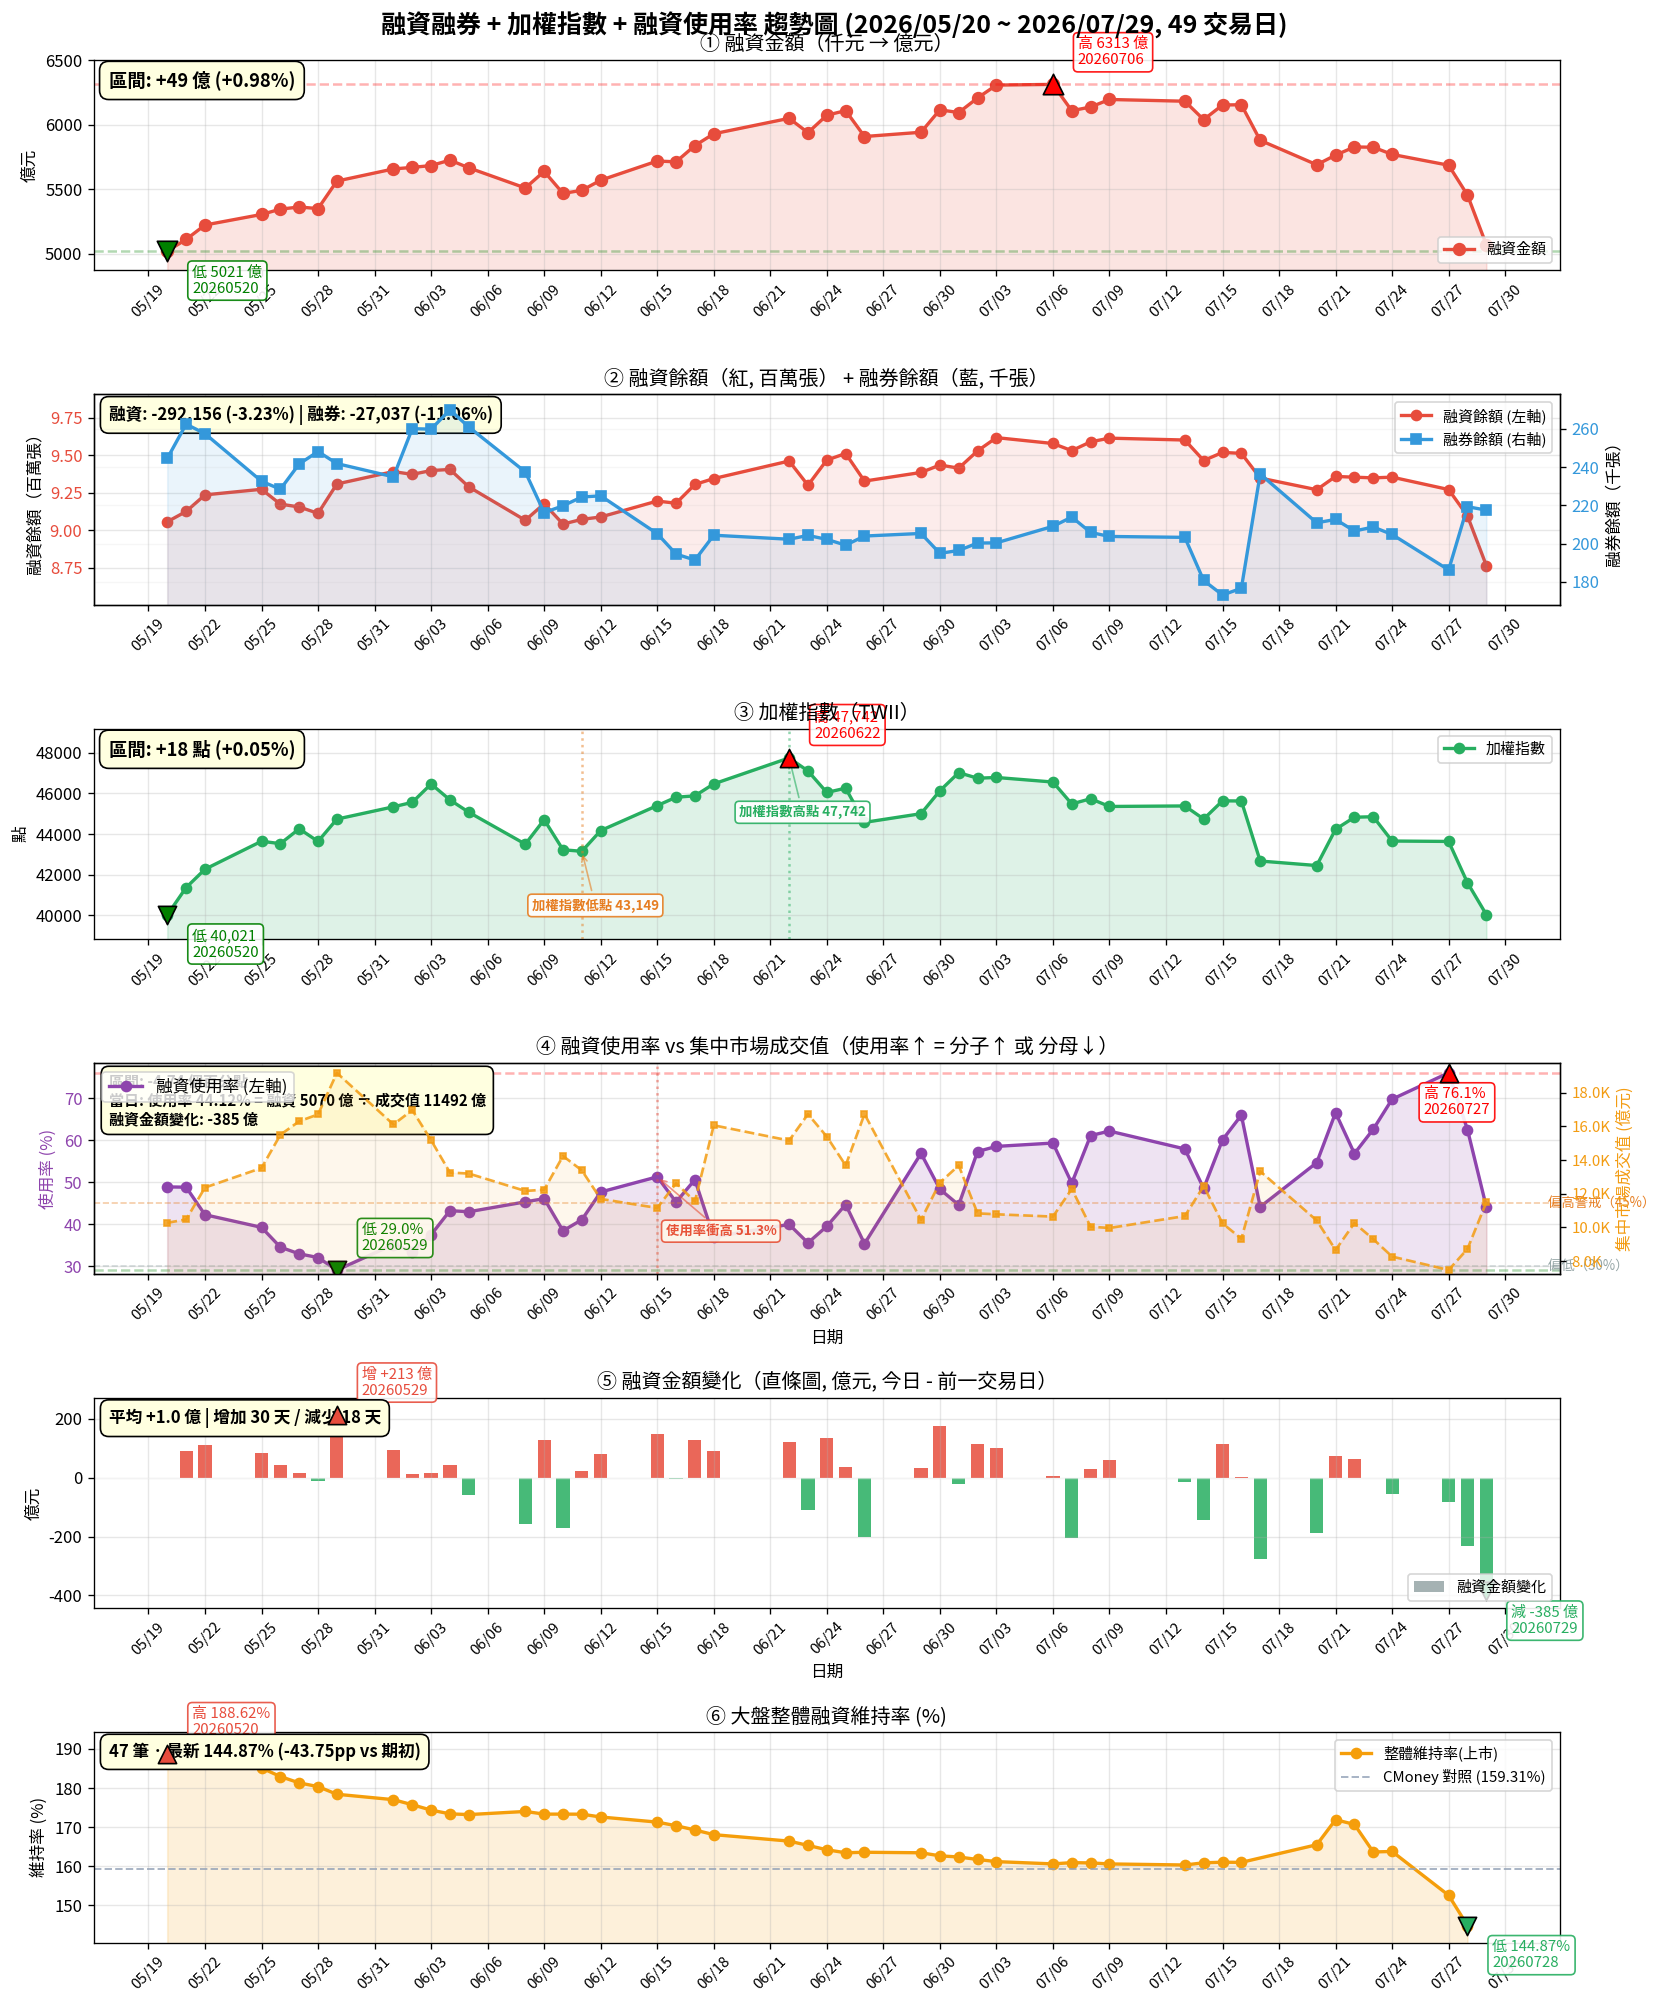
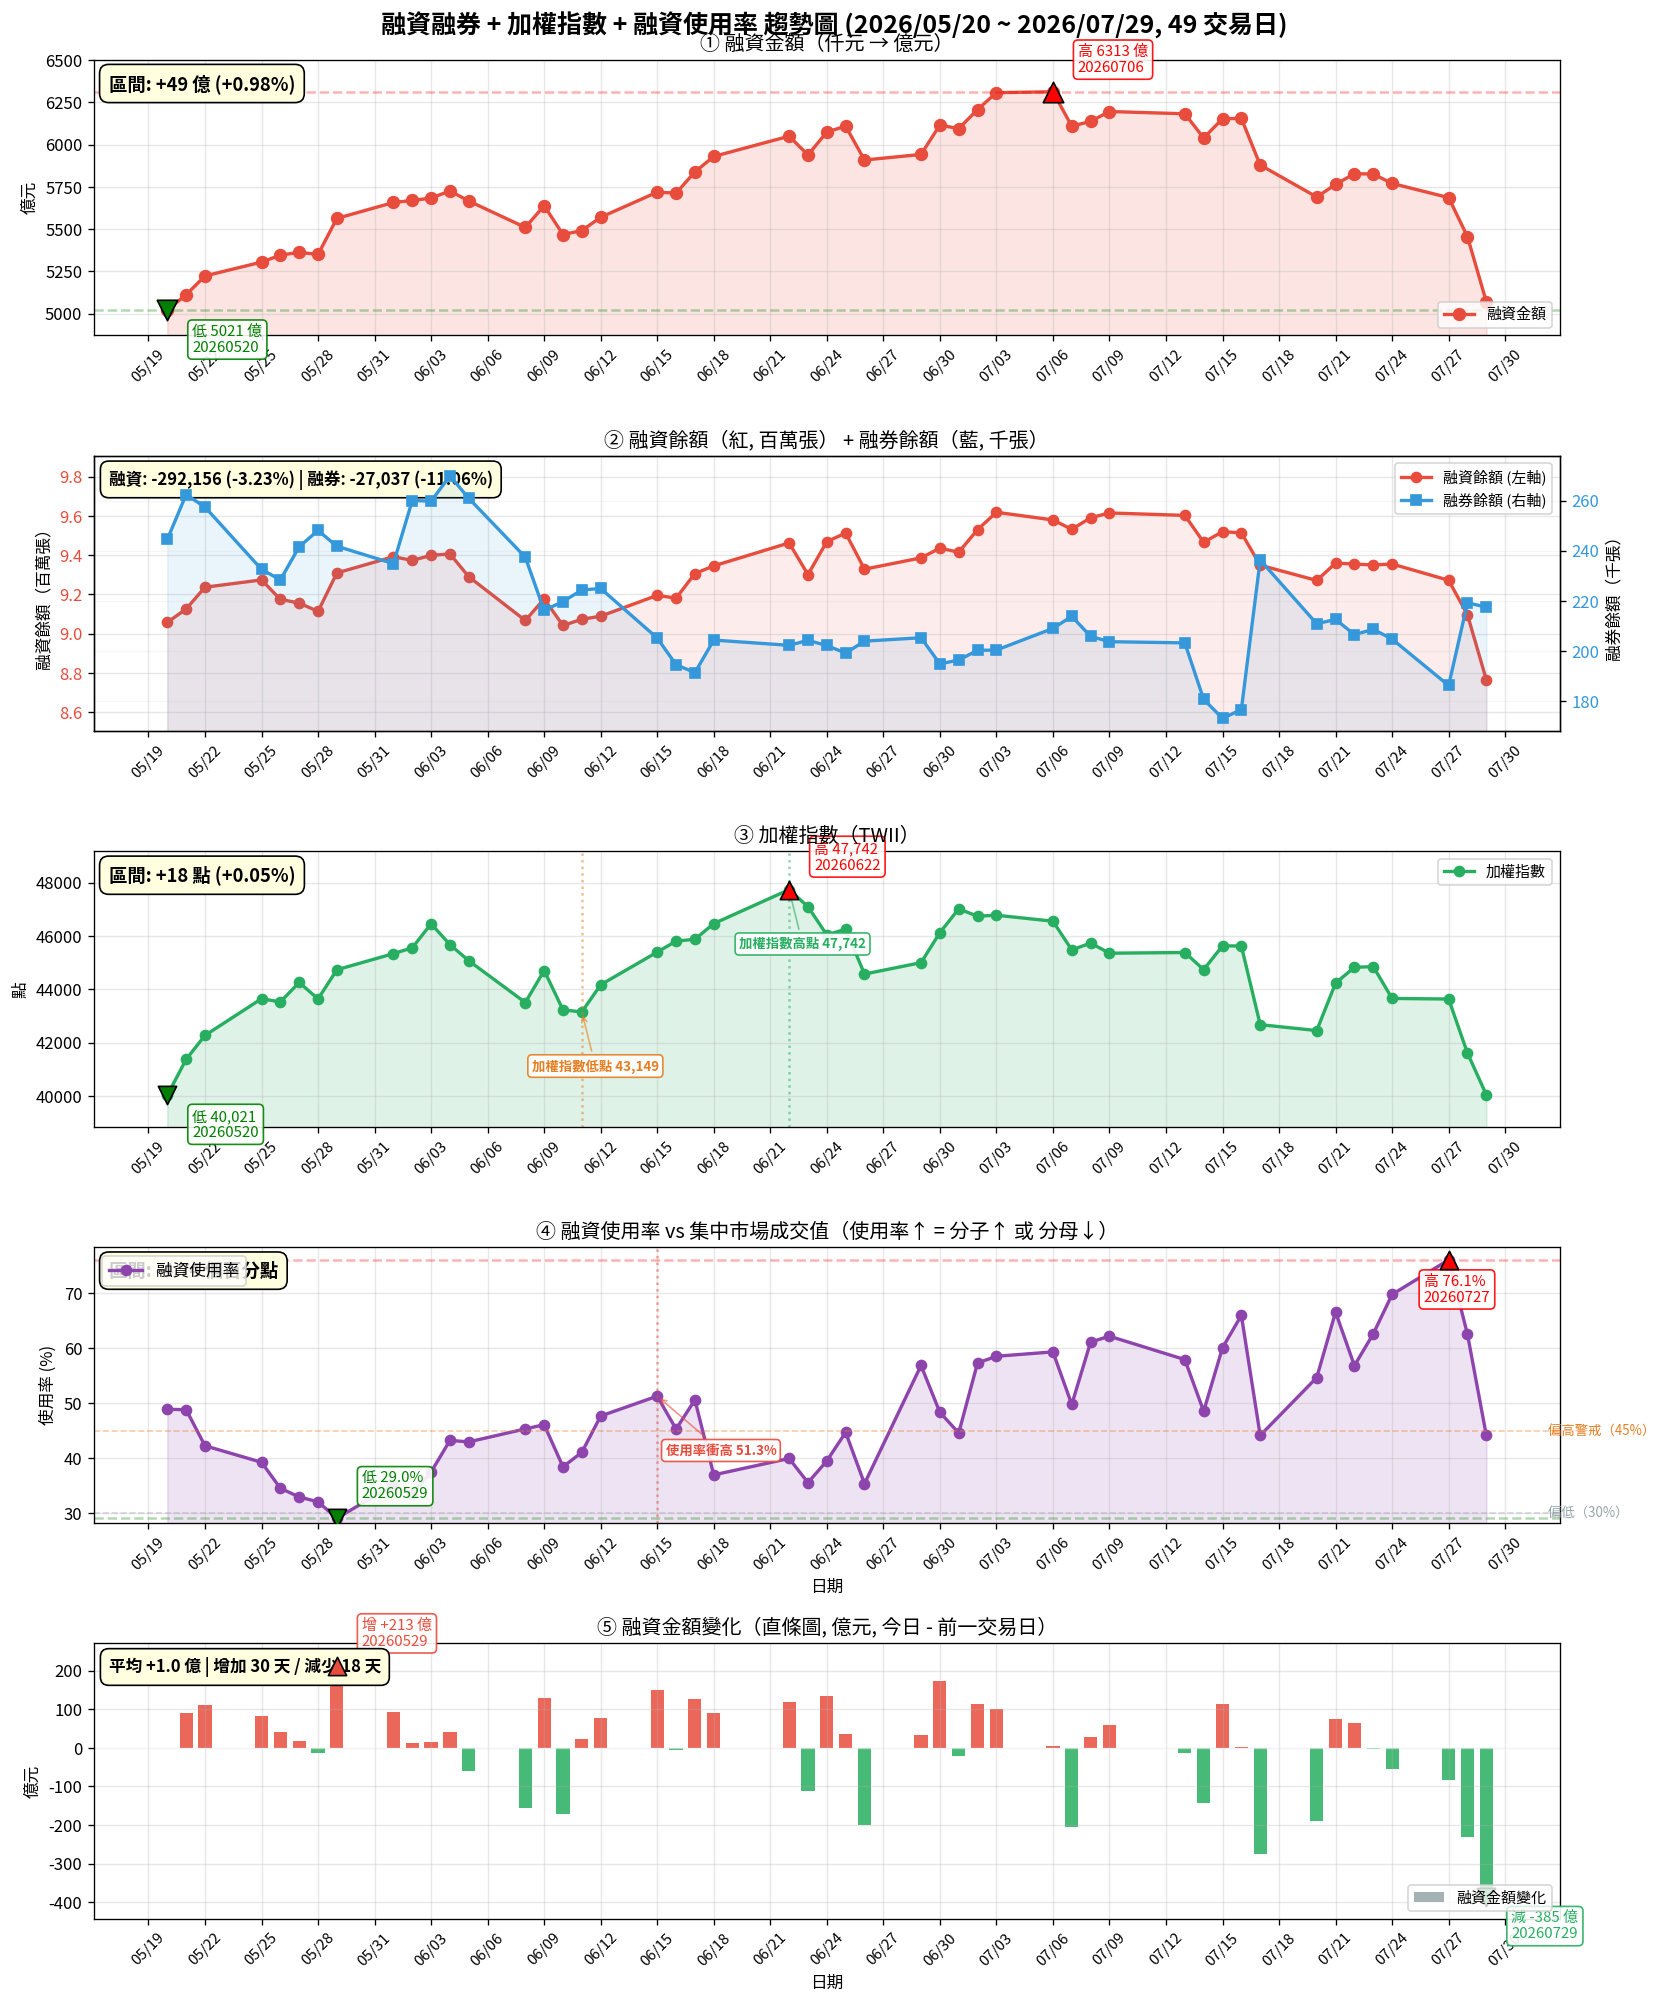
sync: 2026-07-30 06:30 (7 檔)

diff --git a/margin_full_20260501_20260729.html b/margin_full_20260501_20260729.html
@@ -3,7 +3,7 @@
 <head>
 <meta charset="UTF-8">
 <meta name="viewport" content="width=device-width, initial-scale=1.0">
-<title>融資融券 + 加權指數 + 融資使用率 趨勢圖 (2026/05/20 ~ 2026/07/29)</title>
+<title>融資融券 + 加權指數 + 融資使用率 趨勢圖 (2026/05/01 ~ 2026/07/29)</title>
 <script src="https://cdn.jsdelivr.net/npm/chart.js@4.4.1/dist/chart.umd.min.js"></script>
 <script src="https://cdn.jsdelivr.net/npm/chartjs-adapter-date-fns/dist/chartjs-adapter-date-fns.bundle.min.js"></script>
 <style>
@@ -169,8 +169,8 @@
 <div class="container">
   <h1>📊 融資融券 + 加權指數 + 融資使用率 趨勢圖</h1>
   <div class="meta">
-    <span>📅 2026/05/20 ~ 2026/07/29</span>
-    <span>📈 49 交易日</span>
+    <span>📅 2026/05/01 ~ 2026/07/29</span>
+    <span>📈 61 交易日</span>
     <span>🔄 v2.0 Nova</span>
   </div>
 
@@ -180,29 +180,29 @@
         <div class="summary-card">
           <div class="badge">v2.0</div>
           <div class="label">融資金額（當日億）</div>
-          <div class="value">5021 → 5070 億</div>
-          <div class="change positive">+49 億 (+0.98%)</div>
+          <div class="value">4704 → 5070 億</div>
+          <div class="change positive">+366 億 (+7.78%)</div>
         </div>
 
         <div class="summary-card">
           <div class="badge">v2.0</div>
           <div class="label">融資餘額（百萬張）</div>
-          <div class="value">9.06M → 8.76M 張</div>
-          <div class="change negative">-292,156 張 (-3.23%)</div>
+          <div class="value">8.77M → 8.76M 張</div>
+          <div class="change negative">-8,872 張 (-0.10%)</div>
         </div>
 
         <div class="summary-card">
           <div class="badge">v2.0</div>
           <div class="label">融券餘額（千張）</div>
-          <div class="value">245K → 217K 張</div>
-          <div class="change positive">-27,037 張 (-11.06%)</div>
+          <div class="value">215K → 217K 張</div>
+          <div class="change negative">+2,698 張 (+1.26%)</div>
         </div>
 
         <div class="summary-card">
           <div class="badge">v2.0</div>
           <div class="label">加權指數</div>
-          <div class="value">40,021 → 40,039</div>
-          <div class="change positive">+18 點 (+0.05%)</div>
+          <div class="value">40,705 → 40,039</div>
+          <div class="change negative">-666 點 (-1.64%)</div>
         </div>
   </div>
 
@@ -255,13 +255,13 @@
   </div>
 
   <div class="actions">
-    <a href="margin_full_20260520_20260729.png" download>⬇ 下載 PNG</a>
-    <a href="margin_full_20260520_20260729.csv" download class="secondary">📄 下載 CSV</a>
+    <a href="margin_full_20260501_20260729.png" download>⬇ 下載 PNG</a>
+    <a href="margin_full_20260501_20260729.csv" download class="secondary">📄 下載 CSV</a>
   </div>
 </div>
 
 <script>
-const rawData = {"dates": ["2026-05-20", "2026-05-21", "2026-05-22", "2026-05-25", "2026-05-26", "2026-05-27", "2026-05-28", "2026-05-29", "2026-06-01", "2026-06-02", "2026-06-03", "2026-06-04", "2026-06-05", "2026-06-08", "2026-06-09", "2026-06-10", "2026-06-11", "2026-06-12", "2026-06-15", "2026-06-16", "2026-06-17", "2026-06-18", "2026-06-22", "2026-06-23", "2026-06-24", "2026-06-25", "2026-06-26", "2026-06-29", "2026-06-30", "2026-07-01", "2026-07-02", "2026-07-03", "2026-07-06", "2026-07-07", "2026-07-08", "2026-07-09", "2026-07-13", "2026-07-14", "2026-07-15", "2026-07-16", "2026-07-17", "2026-07-20", "2026-07-21", "2026-07-22", "2026-07-23", "2026-07-24", "2026-07-27", "2026-07-28", "2026-07-29"], "margin_amount": [5020.79, 5111.54, 5222.89, 5304.76, 5345.93, 5362.69, 5350.3, 5563.6, 5657.79, 5669.71, 5683.95, 5726.36, 5666.49, 5510.12, 5638.77, 5468.12, 5491.77, 5570.28, 5719.07, 5713.08, 5839.12, 5930.47, 6050.42, 5939.29, 6074.56, 6110.01, 5909.26, 5942.3, 6116.52, 6095.02, 6208.37, 6308.12, 6313.45, 6109.45, 6138.16, 6196.48, 6182.99, 6040.34, 6153.68, 6155.76, 5879.63, 5690.36, 5764.96, 5828.24, 5826.26, 5770.6, 5686.63, 5455.35, 5070.11], "margin_amount_change": [0.0, 90.75, 111.35, 81.87, 41.17, 16.77, -12.4, 213.3, 94.19, 11.92, 14.25, 42.41, -59.87, -156.37, 128.65, -170.65, 23.65, 78.51, 148.79, -5.99, 126.04, 91.35, 119.95, -111.12, 135.27, 35.44, -200.75, 33.04, 174.23, -21.5, 113.35, 99.75, 5.32, -204.0, 28.7, 58.33, -13.49, -142.65, 113.34, 2.08, -276.13, -189.27, 74.6, 63.27, -1.97, -55.67, -83.96, -231.29, -385.24], "margin_balance": [9.057, 9.1259, 9.2364, 9.2737, 9.1746, 9.1558, 9.1132, 9.3092, 9.392, 9.3732, 9.399, 9.4061, 9.2899, 9.0669, 9.177, 9.0416, 9.073, 9.0888, 9.1951, 9.1807, 9.3062, 9.3452, 9.4624, 9.3007, 9.469, 9.5124, 9.3284, 9.3861, 9.4355, 9.4149, 9.53, 9.6186, 9.5793, 9.5317, 9.5906, 9.615, 9.6026, 9.4656, 9.5197, 9.5136, 9.3489, 9.2709, 9.3594, 9.3546, 9.3499, 9.3548, 9.272, 9.096, 8.7649], "short_balance": [244.52, 262.41, 257.44, 232.58, 228.39, 241.62, 248.1, 241.8, 234.87, 260.05, 259.8, 269.86, 260.93, 237.43, 216.2, 219.75, 224.34, 224.95, 205.18, 194.52, 191.38, 204.36, 202.27, 204.26, 202.19, 199.16, 203.93, 205.29, 194.89, 196.39, 200.27, 200.37, 209.01, 213.84, 205.83, 203.71, 203.24, 180.71, 173.13, 176.62, 236.3, 210.86, 212.61, 206.55, 208.65, 204.75, 186.23, 219.26, 217.48], "twii": [40020.82, 41368.21, 42267.97, 43644.4, 43525.37, 44256.8, 43636.44, 44732.94, 45337.91, 45557.31, 46459.16, 45677.46, 45070.94, 43502.78, 44704.44, 43225.54, 43149.46, 44169.04, 45396.99, 45809.19, 45877.39, 46465.2, 47741.51, 47100.65, 46043.6, 46255.26, 44571.76, 44999.9, 46125.91, 47018.99, 46744.16, 46780.62, 46556.39, 45479.11, 45734.41, 45354.61, 45380.52, 44737.95, 45631.59, 45624.98, 42671.27, 42449.7, 44232.87, 44825.78, 44850.81, 43654.84, 43634.19, 41603.36, 40039.18], "margin_ratio": [48.86, 48.79, 42.23, 39.22, 34.5, 32.9, 32.02, 29.02, 35.12, 33.42, 37.46, 43.2, 42.93, 45.29, 46.07, 38.4, 41.03, 47.64, 51.26, 45.26, 50.57, 36.92, 39.92, 35.51, 39.47, 44.66, 35.32, 56.84, 48.31, 44.56, 57.29, 58.52, 59.31, 49.75, 61.1, 62.16, 57.91, 48.51, 60.07, 65.97, 44.1, 54.64, 66.55, 56.81, 62.61, 69.77, 76.06, 62.52, 44.12]};
+const rawData = {"dates": ["2026-05-04", "2026-05-05", "2026-05-06", "2026-05-07", "2026-05-08", "2026-05-11", "2026-05-12", "2026-05-13", "2026-05-14", "2026-05-15", "2026-05-18", "2026-05-19", "2026-05-20", "2026-05-21", "2026-05-22", "2026-05-25", "2026-05-26", "2026-05-27", "2026-05-28", "2026-05-29", "2026-06-01", "2026-06-02", "2026-06-03", "2026-06-04", "2026-06-05", "2026-06-08", "2026-06-09", "2026-06-10", "2026-06-11", "2026-06-12", "2026-06-15", "2026-06-16", "2026-06-17", "2026-06-18", "2026-06-22", "2026-06-23", "2026-06-24", "2026-06-25", "2026-06-26", "2026-06-29", "2026-06-30", "2026-07-01", "2026-07-02", "2026-07-03", "2026-07-06", "2026-07-07", "2026-07-08", "2026-07-09", "2026-07-13", "2026-07-14", "2026-07-15", "2026-07-16", "2026-07-17", "2026-07-20", "2026-07-21", "2026-07-22", "2026-07-23", "2026-07-24", "2026-07-27", "2026-07-28", "2026-07-29"], "margin_amount": [4703.94, 4751.45, 4756.48, 4826.64, 4771.85, 4845.93, 4911.95, 4944.18, 4991.35, 4927.97, 5016.2, 4968.87, 5020.79, 5111.54, 5222.89, 5304.76, 5345.93, 5362.69, 5350.3, 5563.6, 5657.79, 5669.71, 5683.95, 5726.36, 5666.49, 5510.12, 5638.77, 5468.12, 5491.77, 5570.28, 5719.07, 5713.08, 5839.12, 5930.47, 6050.42, 5939.29, 6074.56, 6110.01, 5909.26, 5942.3, 6116.52, 6095.02, 6208.37, 6308.12, 6313.45, 6109.45, 6138.16, 6196.48, 6182.99, 6040.34, 6153.68, 6155.76, 5879.63, 5690.36, 5764.96, 5828.24, 5826.26, 5770.6, 5686.63, 5455.35, 5070.11], "margin_amount_change": [0.0, 47.52, 5.03, 70.16, -54.79, 74.08, 66.02, 32.23, 47.17, -63.38, 88.22, -47.33, 51.92, 90.75, 111.35, 81.87, 41.17, 16.77, -12.4, 213.3, 94.19, 11.92, 14.25, 42.41, -59.87, -156.37, 128.65, -170.65, 23.65, 78.51, 148.79, -5.99, 126.04, 91.35, 119.95, -111.12, 135.27, 35.44, -200.75, 33.04, 174.23, -21.5, 113.35, 99.75, 5.32, -204.0, 28.7, 58.33, -13.49, -142.65, 113.34, 2.08, -276.13, -189.27, 74.6, 63.27, -1.97, -55.67, -83.96, -231.29, -385.24], "margin_balance": [8.7737, 8.874, 8.844, 8.9019, 8.7558, 8.8762, 9.085, 9.1389, 9.1004, 9.0387, 9.1492, 9.0765, 9.057, 9.1259, 9.2364, 9.2737, 9.1746, 9.1558, 9.1132, 9.3092, 9.392, 9.3732, 9.399, 9.4061, 9.2899, 9.0669, 9.177, 9.0416, 9.073, 9.0888, 9.1951, 9.1807, 9.3062, 9.3452, 9.4624, 9.3007, 9.469, 9.5124, 9.3284, 9.3861, 9.4355, 9.4149, 9.53, 9.6186, 9.5793, 9.5317, 9.5906, 9.615, 9.6026, 9.4656, 9.5197, 9.5136, 9.3489, 9.2709, 9.3594, 9.3546, 9.3499, 9.3548, 9.272, 9.096, 8.7649], "short_balance": [214.79, 203.73, 201.38, 201.71, 205.04, 211.32, 211.97, 228.16, 229.03, 231.68, 239.44, 239.2, 244.52, 262.41, 257.44, 232.58, 228.39, 241.62, 248.1, 241.8, 234.87, 260.05, 259.8, 269.86, 260.93, 237.43, 216.2, 219.75, 224.34, 224.95, 205.18, 194.52, 191.38, 204.36, 202.27, 204.26, 202.19, 199.16, 203.93, 205.29, 194.89, 196.39, 200.27, 200.37, 209.01, 213.84, 205.83, 203.71, 203.24, 180.71, 173.13, 176.62, 236.3, 210.86, 212.61, 206.55, 208.65, 204.75, 186.23, 219.26, 217.48], "twii": [40705.14, 40769.29, 41138.85, 41933.78, 41603.94, 41790.06, 41898.32, 41374.5, 41751.75, 41172.36, 40891.82, 40175.56, 40020.82, 41368.21, 42267.97, 43644.4, 43525.37, 44256.8, 43636.44, 44732.94, 45337.91, 45557.31, 46459.16, 45677.46, 45070.94, 43502.78, 44704.44, 43225.54, 43149.46, 44169.04, 45396.99, 45809.19, 45877.39, 46465.2, 47741.51, 47100.65, 46043.6, 46255.26, 44571.76, 44999.9, 46125.91, 47018.99, 46744.16, 46780.62, 46556.39, 45479.11, 45734.41, 45354.61, 45380.52, 44737.95, 45631.59, 45624.98, 42671.27, 42449.7, 44232.87, 44825.78, 44850.81, 43654.84, 43634.19, 41603.36, 40039.18], "margin_ratio": [44.74, 45.28, 31.21, 38.71, 36.55, 41.4, 33.96, 39.06, 39.14, 35.84, 48.14, 43.16, 48.86, 48.79, 42.23, 39.22, 34.5, 32.9, 32.02, 29.02, 35.12, 33.42, 37.46, 43.2, 42.93, 45.29, 46.07, 38.4, 41.03, 47.64, 51.26, 45.26, 50.57, 36.92, 39.92, 35.51, 39.47, 44.66, 35.32, 56.84, 48.31, 44.56, 57.29, 58.52, 59.31, 49.75, 61.1, 62.16, 57.91, 48.51, 60.07, 65.97, 44.1, 54.64, 66.55, 56.81, 62.61, 69.77, 76.06, 62.52, 44.12]};
 
 // 共用設定
 const baseOptions = {

diff --git a/index.html b/index.html
@@ -29,7 +29,7 @@ body{font-family:"Microsoft JhengHei","PingFang TC",Arial,sans-serif;background:
 </style>
 </head>
 <body>
-<div class="nova-timestamp">📅 Updated: Jul 30, 2026 05:33 AM</div>
+<div class="nova-timestamp">📅 Updated: Jul 30, 2026 06:30 AM</div>
 
 <div class="container">
   <div class="header">
@@ -60,7 +60,7 @@ body{font-family:"Microsoft JhengHei","PingFang TC",Arial,sans-serif;background:
       <div class="card-icon">📋</div>
       <div class="card-title">盤前報告</div>
       <div class="card-meta">08:10 更新</div>
-      <div class="card-size">32KB · 07/30 05:33</div>
+      <div class="card-size">32KB · 07/30 06:30</div>
     </a>
     <a href="技術分析總表_20260730.html" class="card" target="_blank">
       <div class="card-icon">📊</div>
@@ -72,7 +72,7 @@ body{font-family:"Microsoft JhengHei","PingFang TC",Arial,sans-serif;background:
       <div class="card-icon">📐</div>
       <div class="card-title">BIAS 乖離率</div>
       <div class="card-meta">22 檔持股+觀察</div>
-      <div class="card-size">10KB · 07/30 05:33</div>
+      <div class="card-size">10KB · 07/30 06:30</div>
     </a>
   </div>
 
